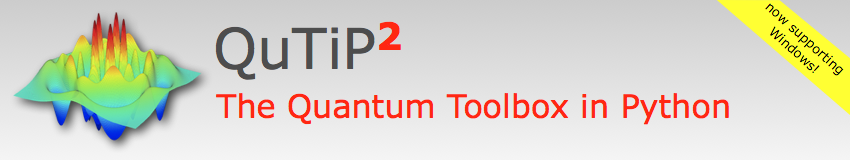
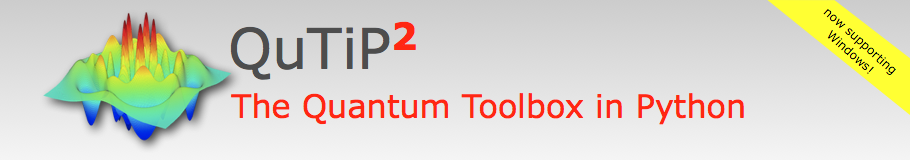
UPDATED: Added google group to navbar and enlarged header image

Changed region(s): [[0.0, 0.0938, 0.8565, 0.9375], [0.8871, 0.0312, 1.0, 0.4688]]

diff --git a/citing.html b/citing.html
@@ -22,7 +22,7 @@
 <body>
 
 
-<div class="container" style="max-width: 850px;">
+<div class="container" style="max-width: 910px;">
 
 <div class="row-fluid">
 <div class="span12">
@@ -48,6 +48,7 @@
               <li><a href="download.html">Download</a></li>
               <li><a href="documentation.html">Documentation</a></li>
               <li><a href="tutorials.html">Tutorials</a></li>
+              <li><a href="http://groups.google.com/group/qutip">Help Group</a></li>
               <li><a href="citing.html">Citing</a></li>
               <li><a href="http://www.github.com/qutip">Repository</a></li>
             </ul>

diff --git a/documentation.html b/documentation.html
@@ -22,7 +22,7 @@
 <body>
 
 
-<div class="container" style="max-width: 850px;">
+<div class="container" style="max-width: 910px;">
 
 <div class="row-fluid">
 <div class="span12">
@@ -48,6 +48,7 @@
               <li><a href="download.html">Download</a></li>
               <li><a href="documentation.html">Documentation</a></li>
               <li><a href="tutorials.html">Tutorials</a></li>
+              <li><a href="http://groups.google.com/group/qutip">Help Group</a></li>
               <li><a href="citing.html">Citing</a></li>
               <li><a href="http://www.github.com/qutip">Repository</a></li>
             </ul>

diff --git a/download.html b/download.html
@@ -22,7 +22,7 @@
 <body>
 
 
-<div class="container" style="max-width: 850px;">
+<div class="container" style="max-width: 910px;">
 
 <div class="row-fluid">
 <div class="span12">
@@ -48,6 +48,7 @@
               <li><a href="download.html">Download</a></li>
               <li><a href="documentation.html">Documentation</a></li>
               <li><a href="tutorials.html">Tutorials</a></li>
+              <li><a href="http://groups.google.com/group/qutip">Help Group</a></li>
               <li><a href="citing.html">Citing</a></li>
               <li><a href="http://www.github.com/qutip">Repository</a></li>
             </ul>

diff --git a/features.html b/features.html
@@ -22,7 +22,7 @@
 <body>
 
 
-<div class="container" style="max-width: 850px;">
+<div class="container" style="max-width: 910px;">
 
 <div class="row-fluid">
 <div class="span12">
@@ -48,6 +48,7 @@
               <li><a href="download.html">Download</a></li>
               <li><a href="documentation.html">Documentation</a></li>
               <li><a href="tutorials.html">Tutorials</a></li>
+              <li><a href="http://groups.google.com/group/qutip">Help Group</a></li>
               <li><a href="citing.html">Citing</a></li>
               <li><a href="http://www.github.com/qutip">Repository</a></li>
             </ul>

diff --git a/index.html b/index.html
@@ -22,7 +22,7 @@
 <body>
 
 
-<div class="container" style="max-width: 850px;">
+<div class="container" style="max-width: 910px;">
 
 <div class="row-fluid">
 <div class="span12">
@@ -48,6 +48,7 @@
               <li><a href="download.html">Download</a></li>
               <li><a href="documentation.html">Documentation</a></li>
               <li><a href="tutorials.html">Tutorials</a></li>
+              <li><a href="http://groups.google.com/group/qutip">Help Group</a></li>
               <li><a href="citing.html">Citing</a></li>
               <li><a href="http://www.github.com/qutip">Repository</a></li>
             </ul>

diff --git a/tutorials.html b/tutorials.html
@@ -22,7 +22,7 @@
 <body>
 
 
-<div class="container" style="max-width: 850px;">
+<div class="container" style="max-width: 910px;">
 
 <div class="row-fluid">
 <div class="span12">
@@ -48,6 +48,7 @@
               <li><a href="download.html">Download</a></li>
               <li><a href="documentation.html">Documentation</a></li>
               <li><a href="tutorials.html">Tutorials</a></li>
+              <li><a href="http://groups.google.com/group/qutip">Help Group</a></li>
               <li><a href="citing.html">Citing</a></li>
               <li><a href="http://www.github.com/qutip">Repository</a></li>
             </ul>
